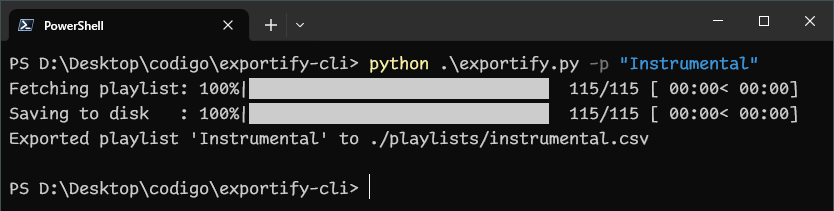
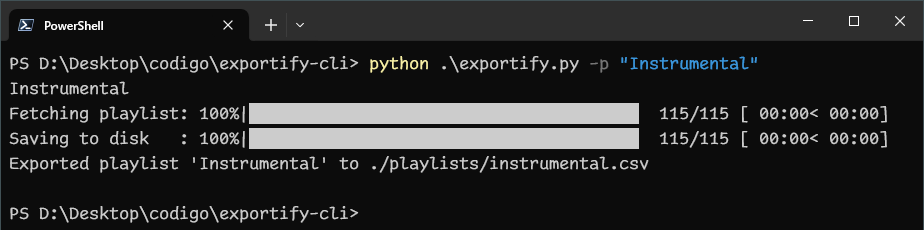
show playlist name over progress bar

diff --git a/exportify.py b/exportify.py
@@ -42,6 +42,8 @@ def export_playlist_to_csv(playlist, output_dir):
     # Ensure the output directory exists
     os.makedirs(output_dir, exist_ok=True)
     
+    print(playlist['name'])
+    
     # Construct the file path
     playlist_filename = playlist['name'].replace(' ', '_').lower() + ".csv"
     file_path = os.path.join(output_dir, playlist_filename)
